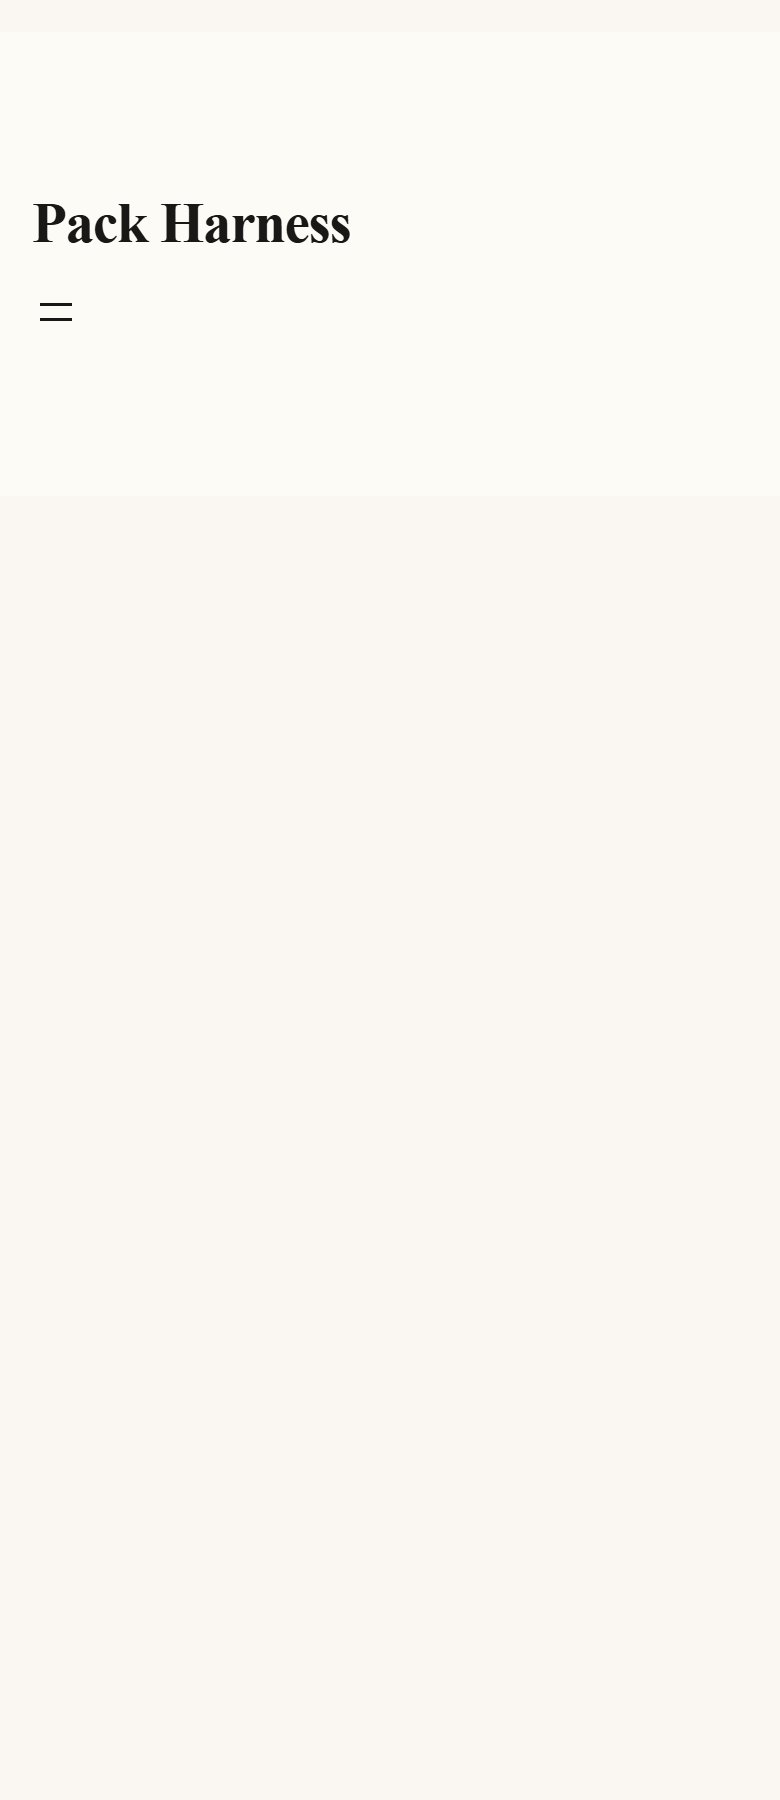
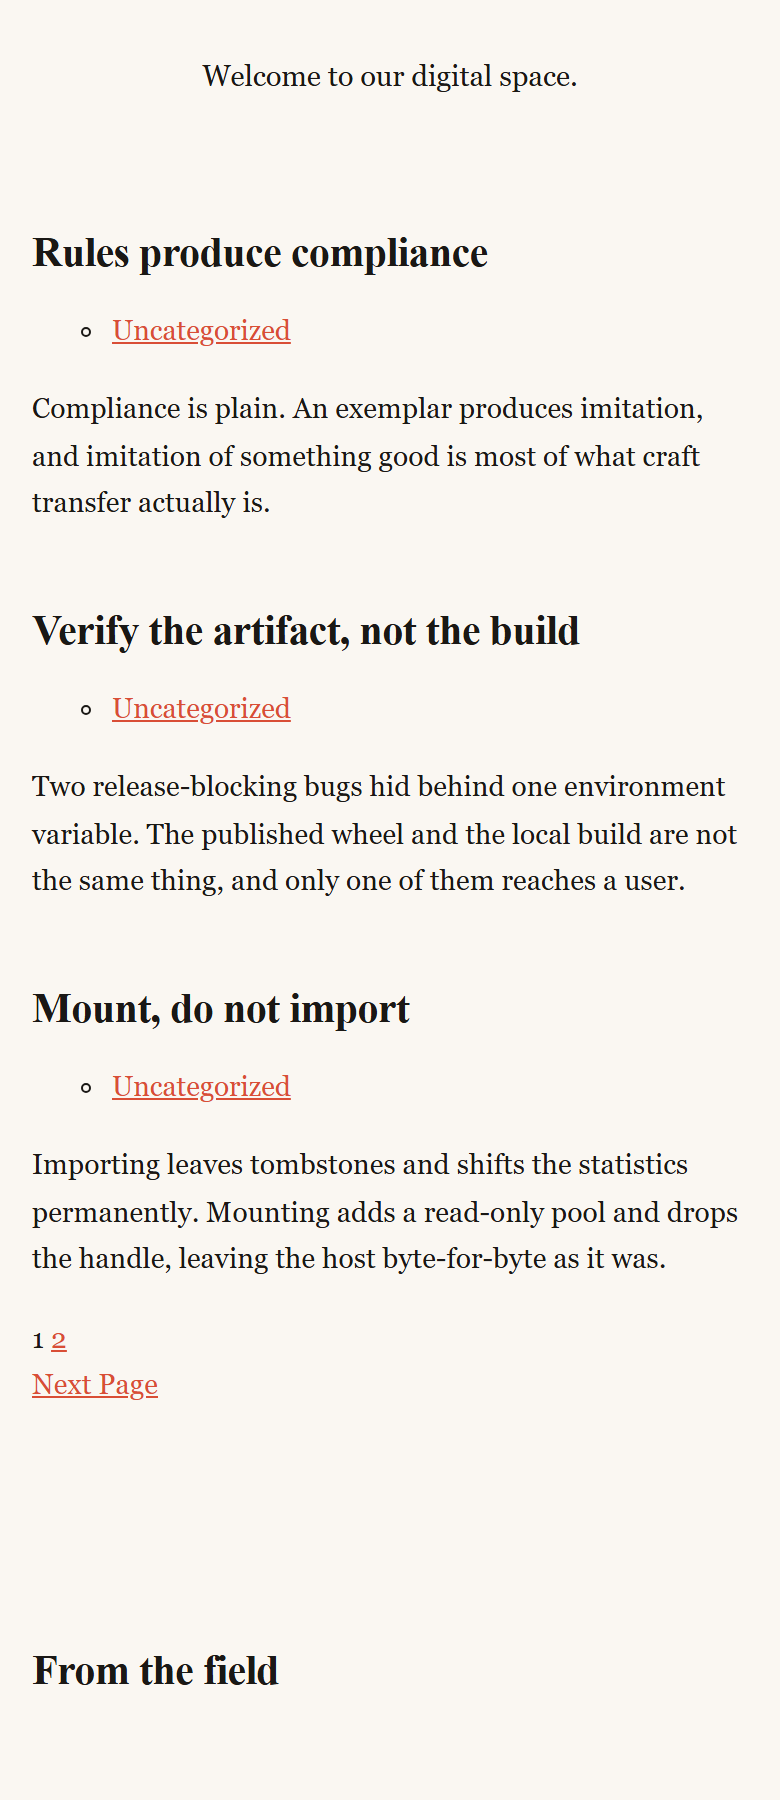
harness: five mechanisms behind the extended-brief collapse, found and fixed
"So we dig in and see why it broke, not give up." Three runs of digging
turned one vague failure (wider brief -> blank page) into five precise
mechanisms:

1. FILE-SCOPE REPAIR COLLAPSED THE FILE. Each whole-file rewrite fixed
   the reported defect and destroyed structure elsewhere — the visible
   corpse was the query loop collapsed to a self-closing tag. Repairs are
   now section-scoped, with defects localised to the section that
   contains the offending block name or snippet. The repair unit must be
   the generation unit.

2. SINGLE-DEFECT FEEDBACK OSCILLATED. The hero fixed core/simple-button,
   invented core/navigation-item, fixed that, reinvented the first.
   Defects now accumulate per section and every regeneration sees the
   full history.

3. THE RETRIEVAL ROUTE HAD A VOCABULARY GAP. The hero wanted a button;
   the intro-band route carried no button exemplar; the model invented
   one. The model's own outline words now join the retrieval query, so
   its stated intent reaches the matching component record.

4. REQUIRED FILES WERE SLICED OFF BY THE CAP. The model wrote
   "styles.css" (plural); the fix-up appended style.css; [:MAX_FILES]
   cut it from the END of the list. WordPress identifies a theme BY
   style.css, hence "theme could not be found". Required files now go
   first, and the style.css header is a mechanical guarantee — adopt a
   wrongly-named stylesheet, prepend the identity header if absent.
[…]

diff --git a/packs/theme-harness/build_iter.py b/packs/theme-harness/build_iter.py
@@ -236,21 +236,20 @@ def section_queries(name: str, blocks: str, index: int, total: int) -> tuple[str
     """Retrieval vocabulary per section kind — the model's own outline
     words plus the concrete terms the composition records are named by."""
     text = f"{name} {blocks}"
+    extra = (f"{name} {blocks} section block markup",)
     if any(w in text for w in ("photo", "gallery", "image", "picture")):
-        return ("photo gallery section core gallery caption wide",
-                "which goes with what pairing table",)
+        return extra + ("photo gallery section core gallery caption wide",)
     if any(w in text for w in ("contact", "email", "write", "reach")):
-        return ("contact section core no form block mailto button tint",)
+        return extra + ("contact section core no form block mailto button tint",)
     if any(w in text for w in ("feature", "column", "showcase", "media")):
-        return ("feature rows media-text columns grid alternate",)
+        return extra + ("feature rows media-text columns grid alternate",)
     if any(w in text for w in ("post", "article", "quer", "blog", "entries")):
-        return ("post query section date title excerpt each exactly once",
-                "block ordering inside a post entry reading order",)
+        return extra + ("post query section date title excerpt each exactly once",
+                        "block ordering inside a post entry reading order",)
     if index == total - 1 and total > 1:
-        return ("closing band section heading one button full-bleed tint",
-                "section sequence stunning front page rhythm alternation",)
-    return ("intro band section full-bleed tint eyebrow heading constrained",
-            "stunning paragraph eyebrow lede heading text treatments",)
+        return extra + ("closing band section heading one button full-bleed tint",)
+    return extra + ("intro band section full-bleed tint eyebrow heading constrained",
+                    "closing band section heading one button full-bleed tint",)
 
 
 def defects_parsed(slug: str, path: str) -> list[str]:
@@ -391,7 +390,12 @@ def main() -> int:
     if "style.css" in manifest + added and "functions.php" not in manifest:
         added.append("functions.php")
     if added:
-        manifest = (manifest + added)[:MAX_FILES]
+        # Required files go FIRST: this run the model wrote "styles.css"
+        # (plural), the fix-up appended style.css — and [:MAX_FILES]
+        # sliced it off the end. WordPress identifies a theme BY
+        # style.css, so the activation error was "theme could not be
+        # found". Required additions must survive the cap.
+        manifest = (added + manifest)[:MAX_FILES]
         repairs += 1
         print(f"  repaired: added {', '.join(added)} "
               f"(required, or nothing would load style.css)")
@@ -467,33 +471,118 @@ def main() -> int:
             outline = parse_outline(raw)
         print("3a outline: " + "; ".join(n for n, _ in outline))
 
-        pieces = ['<!-- wp:template-part {"slug":"header","tagName":"header"} /-->']
-        for i, (name, blocks) in enumerate(outline):
+        HEADER_REF = '<!-- wp:template-part {"slug":"header","tagName":"header"} /-->'
+        FOOTER_REF = '<!-- wp:template-part {"slug":"footer","tagName":"footer"} /-->'
+
+        def gen_section(name: str, blocks: str, i: int, total: int,
+                        defect: str = "") -> str:
+            """One section, regenerated the same way whether it is being
+            written for the first time or repaired — the defect is just
+            more context. Sections never contain site identity or
+            navigation; those live in the header and footer parts."""
+            extra = (f"\nThe previous attempt had this problem, fix it: "
+                     f"{defect}\n") if defect else ""
             frag, _ = ask(
                 ollama, model,
-                host.reference(*section_queries(name, blocks, i, len(outline)))
+                host.reference(*section_queries(name, blocks, i, total))
                 + ctx
                 + f'Write ONLY the block markup for one section of the front '
-                f'page: "{name}" containing {blocks}. One wp:group with its '
-                f'own background and spacing, 8-20 lines. No explanation, no '
-                f'code fences, no header or footer — just this section.',
+                f'page: "{name}" containing {blocks}. One complete wp:group '
+                f'with its own background and spacing presets, 8-20 lines. '
+                f'Do NOT include wp:site-title, wp:navigation, header or '
+                f'footer — those exist elsewhere.{extra} No explanation, no '
+                f'code fences — just this section.',
                 SYSTEM)
-            body_frag = strip_fences(frag)
-            if len(body_frag.splitlines()) < 3 or "wp:group" not in body_frag:
-                frag, _ = ask(
-                    ollama, model,
-                    host.reference(*section_queries(name, blocks, i, len(outline)))
-                    + ctx
-                    + f'Write ONLY the block markup for one front-page section: '
-                    f'"{name}" containing {blocks}. It must be one complete '
-                    f'wp:group with a background and spacing presets, 8-20 '
-                    f'lines of block markup. No explanation, no fences.',
-                    SYSTEM)
-                body_frag = strip_fences(frag)
-            pieces.append(body_frag)
-            print(f"3b section '{name}': {len(body_frag.splitlines())} lines")
-        pieces.append('<!-- wp:template-part {"slug":"footer","tagName":"footer"} /-->')
-        files[main_tpl] = "\n\n".join(pieces) + "\n"
+            out = strip_fences(frag)
+            if len(out.splitlines()) < 3 or "wp:group" not in out:
+                return gen_section(name, blocks, i, total,
+                                   "it was empty or not a wp:group") \
+                    if not defect else out
+            return out
+
+        sections: list[str] = []
+        for i, (name, blocks) in enumerate(outline):
+            sections.append(gen_section(name, blocks, i, len(outline)))
+            print(f"3b section '{name}': {len(sections[-1].splitlines())} lines")
+
+        def assemble() -> str:
+            return "\n\n".join([HEADER_REF, *sections, FOOTER_REF]) + "\n"
+
+        def localise(defect: str) -> int:
+            """Which section does a defect belong to? Match quoted block
+            names or the dropped-delimiter snippet against each section's
+            text; fall back to topic routing. Whole-file rewriting is NOT
+            a fallback — it is how the extended run died: each full-file
+            repair fixed one defect and collapsed the query loop to a
+            self-closing tag, and three rounds never converged. The repair
+            unit must be the same size as the generation unit."""
+            for m in re.findall(r'"([a-z0-9/_-]+)"', defect):
+                for idx, sec in enumerate(sections):
+                    if m in sec:
+                        return idx
+            snip = re.search(r'dropped: "(.{10,40})', defect)
+            if snip:
+                for idx, sec in enumerate(sections):
+                    if snip.group(1)[:20] in sec:
+                        return idx
+            low = defect.lower()
+            if any(w in low for w in ("query", "post", "loop", "excerpt", "date")):
+                for idx, sec in enumerate(sections):
+                    if "wp:query" in sec or "wp:post-template" in sec:
+                        return idx
+            return 0
+
+        files[main_tpl] = assemble()
+        write_theme(slug, files)
+        seen: dict[int, list[str]] = {}
+        for round_ in range(args.rounds):
+            defects = defects_parsed(slug, main_tpl)
+            # Site identity belongs to the parts, never a section.
+            for idx, sec in enumerate(sections):
+                if "wp:site-title" in sec or "wp:navigation" in sec:
+                    defects.append(f'section {idx} duplicates the header — it '
+                                   f'contains site-title or navigation, which '
+                                   f'live in the header part. "{outline[idx][0]}"')
+            if not defects:
+                print(f"3c {main_tpl}: verified section-by-section")
+                break
+            print(f"3c {main_tpl}: {len(defects)} defect(s) -> section-scoped repair")
+            snapshot = list(sections)
+            prev_count = len(defects)
+            hit = set()
+            for d in defects:
+                idx = localise(d)
+                seen.setdefault(idx, [])
+                if d not in seen[idx]:
+                    seen[idx].append(d)
+                if idx in hit:      # one repair per section per round
+                    continue
+                hit.add(idx)
+                name, blocks = outline[idx] if idx < len(outline) else outline[0]
+                print(f"    section '{name}': {d[:96]}")
+                # The FULL defect history for this section, not the latest:
+                # single-defect feedback oscillated — the hero fixed
+                # core/simple-button and invented core/navigation-item,
+                # fixed that and reinvented the first.
+                history = "; ".join(seen[idx][-4:])
+                sections[idx] = gen_section(name, blocks, idx, len(outline), history)
+                repairs += 1
+            files[main_tpl] = assemble()
+            write_theme(slug, files)
+            new_count = len(defects_parsed(slug, main_tpl))
+            if new_count > prev_count + 3:
+                # A regeneration exploded (348 "defects" from one mangled
+                # fragment). Hill-climb: revert this round's changes and
+                # try again from the better state.
+                print(f"3c repair made it worse ({prev_count} -> {new_count}) "
+                      f"— reverting this round")
+                sections[:] = snapshot
+                files[main_tpl] = assemble()
+                write_theme(slug, files)
+        else:
+            left = defects_parsed(slug, main_tpl)
+            if left:
+                print(f"3c {main_tpl}: {len(left)} defect(s) remain")
 
     for path in [p for p in manifest if p.endswith(".html") and p != main_tpl]:
         body = gen(path, ctx)
@@ -527,6 +616,22 @@ def main() -> int:
         else:
             print("4 functions.php: enqueues style.css")
 
+    # style.css is how WordPress identifies a theme, and its header is
+    # boilerplate, not design. Guarantee both mechanically: adopt a
+    # wrongly-named stylesheet, and prepend the header if absent.
+    for wrong in ("styles.css", "css/style.css", "assets/css/style.css"):
+        if "style.css" not in files and wrong in files:
+            files["style.css"] = files.pop(wrong)
+    css = files.get("style.css", "")
+    if "Theme Name" not in css[:1000]:
+        header = ("/*\n"
+                  "Theme Name: Harness Demo\n"
+                  "Version: 1.0.0\n"
+                  "License: GNU General Public License v2 or later\n"
+                  "Text Domain: harness-demo\n"
+                  "*/\n\n")
+        files["style.css"] = header + css
+
     # ── 5. activate, feeding WP-CLI's own error back ────────────────
     root = write_theme(slug, files)
     reset_to_core()
@@ -551,7 +656,9 @@ def main() -> int:
     # template whose query loop had no body. Same lesson as the release
     # that hid behind PYTHONPATH: verify the artifact that exists, not the
     # step that produced it.
-    for path in [p for p in files if p.endswith(".html")]:
+    # main_tpl is repaired section-by-section in 3c; whole-file rewriting
+    # it here is the exact mechanism that collapsed the extended run.
+    for path in [p for p in files if p.endswith(".html") and p != main_tpl]:
         for attempt in range(args.rounds):
             defects = defects_parsed(slug, path)
             if not defects:
